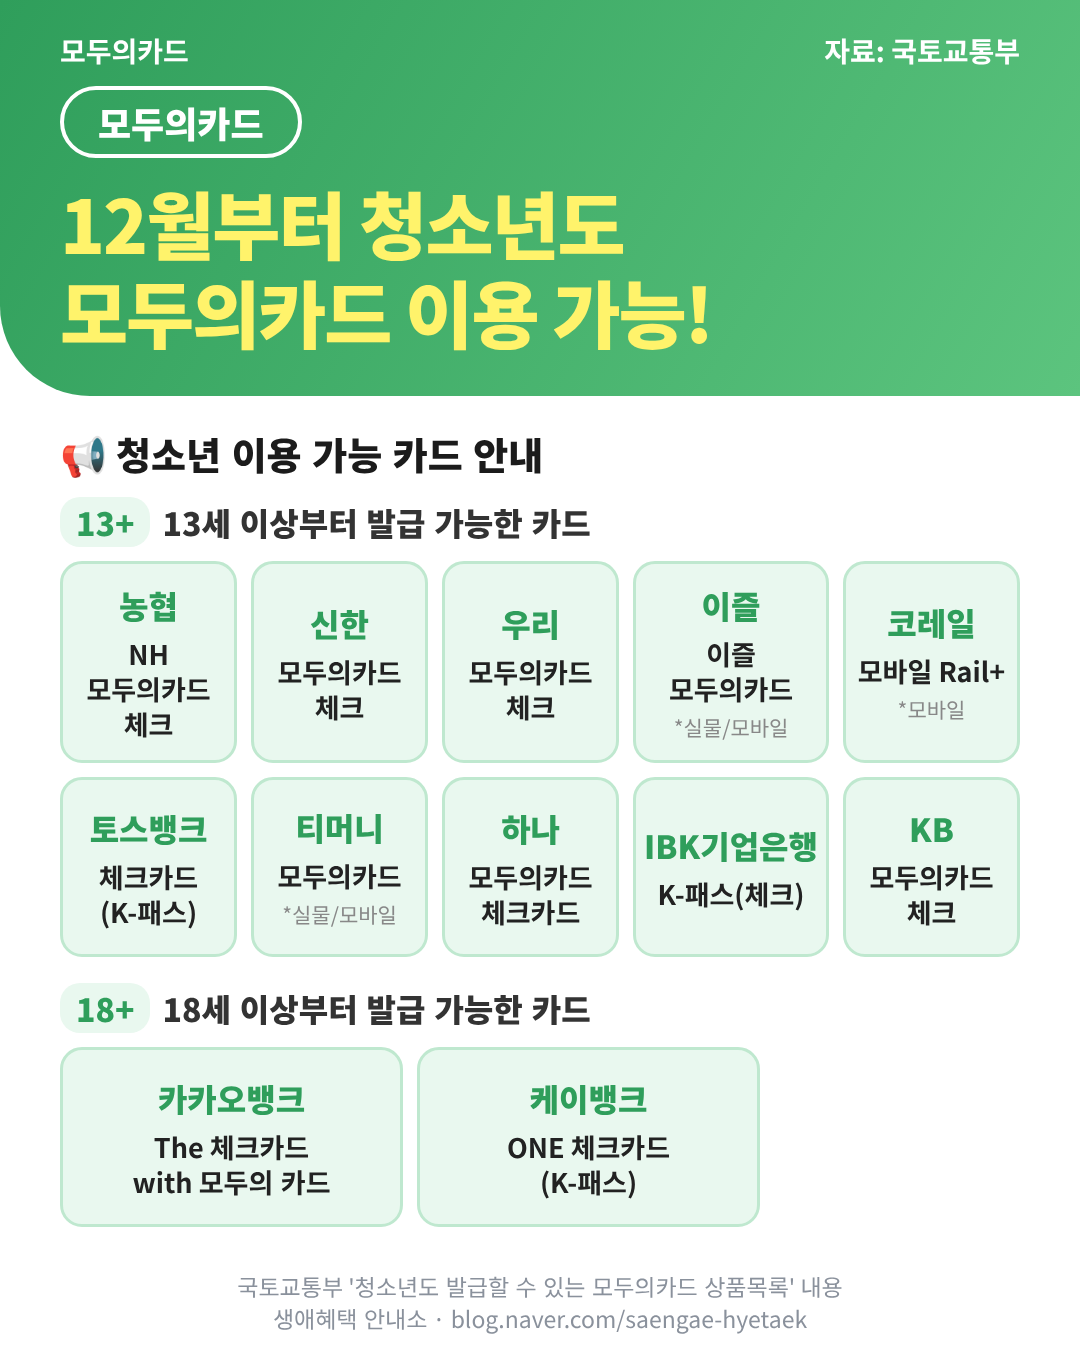
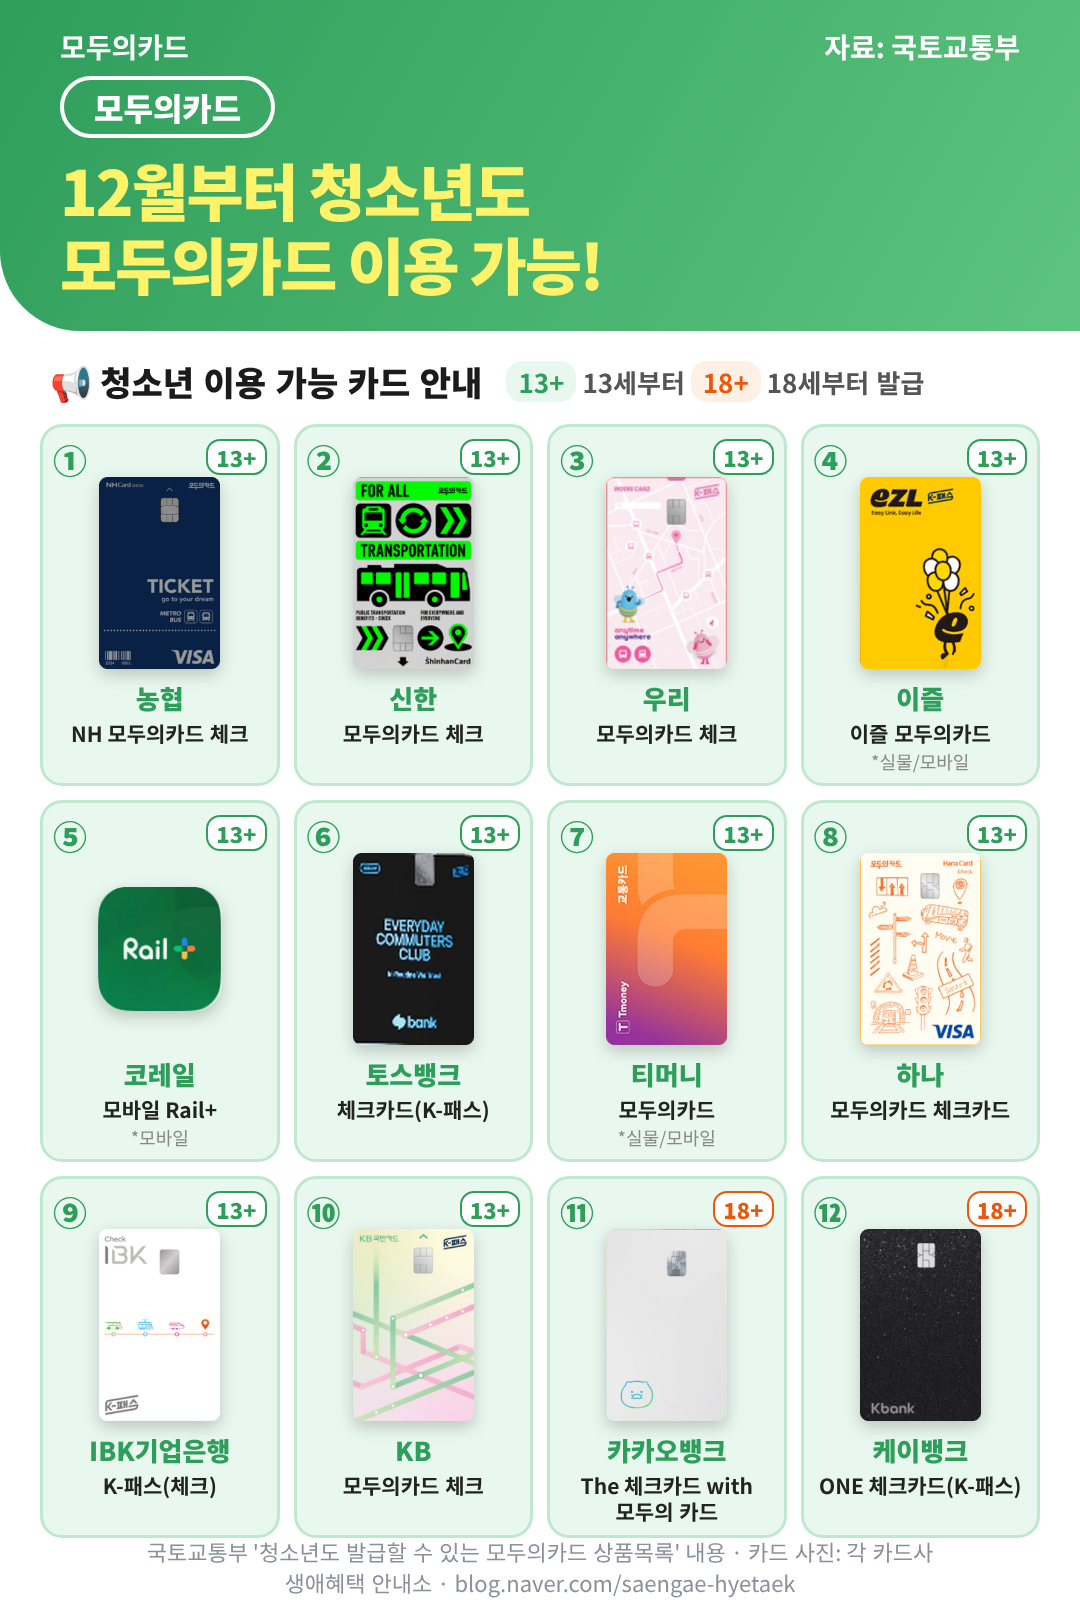
모두의카드 속보: 카드 실물 사진 3줄×4칸 표, 글자 '여기를 누르세요' 링크
Claude-Session: https://claude.ai/code/session_01Nk3GpN9jKPcZJ4GuUVndVh

diff --git a/blog/속보-2026-11-26-모두의카드청소년/원고-11-26-정책속보-모두의카드-청소년.html b/blog/속보-2026-11-26-모두의카드청소년/원고-11-26-정책속보-모두의카드-청소년.html
@@ -14,19 +14,19 @@
 <p style="color:#333333;font-size:16px;line-height:1.9;margin:0 0 12px;text-align:left"><b style="font-size:19px;color:#DE5353">🚌 우리 아이는 어떤 카드로?</b></p>
 <p>[ 사진 넣는 자리 · 02-청소년-발급-가능-모두의카드-12종.webp ]</p>
 <table style="width:100%;border-collapse:collapse;border:0;margin:4px 0 14px"><tr><td style="width:6px;padding:0;background-color:#DE5353;border:0"></td><td style="padding:6px 12px;border:0;color:#333333;font-size:16px;line-height:1.75;text-align:left"><b style="color:#DE5353">👉 쉽게 말하면:</b> 신용카드가 아니라 선불·체크카드라서 아이 이름으로 만들 수 있어요. 만 13세부터는 농협·신한·우리·이즐·코레일·토스뱅크·티머니·하나·IBK기업은행·KB 카드 중에서 고르면 되고, 카카오뱅크·케이뱅크 카드는 만 18세부터 만들 수 있어요. 평소 거래하는 은행 체크카드로 고르면 부모님이 용돈 넣어 주기도 편해요.</td></tr></table>
-<p style="color:#333333;font-size:16px;line-height:1.9;margin:0 0 12px;text-align:left">카드 이름을 누르면 카드사 안내 페이지로 바로 가요.</p>
-<p style="color:#333333;font-size:16px;line-height:1.9;margin:0 0 12px;text-align:left">· 13세부터: 농협 <a href="https://card.nonghyup.com/servlet/IpCc2021R.act?CD_WRS_SQNO=90010470" style="color:#DE5353;text-decoration:underline">NH 모두의카드 체크</a></p>
-<p style="color:#333333;font-size:16px;line-height:1.9;margin:0 0 12px;text-align:left">· 13세부터: 신한 <a href="https://www.shinhancard.com/pconts/html/card/apply/check/1225544_2206.html" style="color:#DE5353;text-decoration:underline">모두의카드 체크</a></p>
-<p style="color:#333333;font-size:16px;line-height:1.9;margin:0 0 12px;text-align:left">· 13세부터: 우리 <a href="https://m.wooricard.com/dcmw/yh1/crd/crd01/M1CRD101S02.do?recomNo=102865" style="color:#DE5353;text-decoration:underline">모두의카드 체크</a></p>
-<p style="color:#333333;font-size:16px;line-height:1.9;margin:0 0 12px;text-align:left">· 13세부터: 이즐 <a href="https://www.myezl.com/ezl/sub/kpass.do" style="color:#DE5353;text-decoration:underline">이즐 모두의카드</a> (실물/모바일)</p>
-<p style="color:#333333;font-size:16px;line-height:1.9;margin:0 0 12px;text-align:left">· 13세부터: 코레일 <a href="https://railplus.korail.com/" style="color:#DE5353;text-decoration:underline">모바일 Rail+</a> (모바일)</p>
-<p style="color:#333333;font-size:16px;line-height:1.9;margin:0 0 12px;text-align:left">· 13세부터: 토스뱅크 <a href="https://www.tossbank.com/card/k-pass" style="color:#DE5353;text-decoration:underline">체크카드(K-패스)</a></p>
-<p style="color:#333333;font-size:16px;line-height:1.9;margin:0 0 12px;text-align:left">· 13세부터: 티머니 <a href="https://www.tmoney.co.kr/aeb/cmnctn/news/readNewsView.dev?bdSeqNo=4170" style="color:#DE5353;text-decoration:underline">모두의카드</a> (실물/모바일)</p>
-<p style="color:#333333;font-size:16px;line-height:1.9;margin:0 0 12px;text-align:left">· 13세부터: 하나 <a href="https://m.hanacard.co.kr/MKCDCM1000M.web?CD_PD_SEQ=17034" style="color:#DE5353;text-decoration:underline">모두의카드 체크카드</a></p>
-<p style="color:#333333;font-size:16px;line-height:1.9;margin:0 0 12px;text-align:left">· 13세부터: IBK기업은행 K-패스(체크) — 가까운 지점이나 i-ONE Bank 앱에서 문의</p>
-<p style="color:#333333;font-size:16px;line-height:1.9;margin:0 0 12px;text-align:left">· 13세부터: KB <a href="https://card.kbcard.com/CRD/DVIEW/HCAMCXPRICAC0076?mainCC=a&amp;cooperationcode=09322" style="color:#DE5353;text-decoration:underline">모두의카드 체크</a></p>
-<p style="color:#333333;font-size:16px;line-height:1.9;margin:0 0 12px;text-align:left">· 18세부터: 카카오뱅크 <a href="https://www.kakaobank.com/products/thecheckcard" style="color:#DE5353;text-decoration:underline">The 체크카드 with 모두의 카드</a></p>
-<p style="color:#333333;font-size:16px;line-height:1.9;margin:0 0 12px;text-align:left">· 18세부터: 케이뱅크 <a href="https://www.kbanknow.com/web/product/card/one-card" style="color:#DE5353;text-decoration:underline">ONE 체크카드(K-패스)</a></p>
+<p style="color:#333333;font-size:16px;line-height:1.9;margin:0 0 12px;text-align:left">사진 속 번호와 같아요. 원하는 카드 옆 &#x27;여기를 누르세요&#x27;를 누르면 그 카드사 안내 페이지로 바로 가요.</p>
+<p style="color:#333333;font-size:16px;line-height:1.9;margin:0 0 12px;text-align:left">① 농협 · NH 모두의카드 체크 👉 <a href="https://card.nonghyup.com/servlet/IpCc2021R.act?CD_WRS_SQNO=90010470" style="color:#DE5353;text-decoration:underline">여기를 누르세요</a></p>
+<p style="color:#333333;font-size:16px;line-height:1.9;margin:0 0 12px;text-align:left">② 신한 · 모두의카드 체크 👉 <a href="https://www.shinhancard.com/pconts/html/card/apply/check/1225544_2206.html" style="color:#DE5353;text-decoration:underline">여기를 누르세요</a></p>
+<p style="color:#333333;font-size:16px;line-height:1.9;margin:0 0 12px;text-align:left">③ 우리 · 모두의카드 체크 👉 <a href="https://m.wooricard.com/dcmw/yh1/crd/crd01/M1CRD101S02.do?recomNo=102865" style="color:#DE5353;text-decoration:underline">여기를 누르세요</a></p>
+<p style="color:#333333;font-size:16px;line-height:1.9;margin:0 0 12px;text-align:left">④ 이즐 · 이즐 모두의카드(실물/모바일) 👉 <a href="https://www.myezl.com/ezl/sub/kpass.do" style="color:#DE5353;text-decoration:underline">여기를 누르세요</a></p>
+<p style="color:#333333;font-size:16px;line-height:1.9;margin:0 0 12px;text-align:left">⑤ 코레일 · 모바일 Rail+(모바일) 👉 <a href="https://railplus.korail.com/" style="color:#DE5353;text-decoration:underline">여기를 누르세요</a></p>
+<p style="color:#333333;font-size:16px;line-height:1.9;margin:0 0 12px;text-align:left">⑥ 토스뱅크 · 체크카드(K-패스) 👉 <a href="https://www.tossbank.com/card/k-pass" style="color:#DE5353;text-decoration:underline">여기를 누르세요</a></p>
+<p style="color:#333333;font-size:16px;line-height:1.9;margin:0 0 12px;text-align:left">⑦ 티머니 · 모두의카드(실물/모바일) 👉 <a href="https://www.tmoney.co.kr/aeb/cmnctn/news/readNewsView.dev?bdSeqNo=4170" style="color:#DE5353;text-decoration:underline">여기를 누르세요</a></p>
+<p style="color:#333333;font-size:16px;line-height:1.9;margin:0 0 12px;text-align:left">⑧ 하나 · 모두의카드 체크카드 👉 <a href="https://m.hanacard.co.kr/MKCDCM1000M.web?CD_PD_SEQ=17034" style="color:#DE5353;text-decoration:underline">여기를 누르세요</a></p>
+<p style="color:#333333;font-size:16px;line-height:1.9;margin:0 0 12px;text-align:left">⑨ IBK기업은행 · K-패스(체크) 👉 가까운 IBK기업은행 지점이나 i-ONE Bank 앱에서 물어보세요</p>
+<p style="color:#333333;font-size:16px;line-height:1.9;margin:0 0 12px;text-align:left">⑩ KB · 모두의카드 체크 👉 <a href="https://card.kbcard.com/CRD/DVIEW/HCAMCXPRICAC0076?mainCC=a&amp;cooperationcode=09322" style="color:#DE5353;text-decoration:underline">여기를 누르세요</a></p>
+<p style="color:#333333;font-size:16px;line-height:1.9;margin:0 0 12px;text-align:left">⑪ 카카오뱅크 · The 체크카드 with 모두의 카드 (18세부터) 👉 <a href="https://www.kakaobank.com/products/thecheckcard" style="color:#DE5353;text-decoration:underline">여기를 누르세요</a></p>
+<p style="color:#333333;font-size:16px;line-height:1.9;margin:0 0 12px;text-align:left">⑫ 케이뱅크 · ONE 체크카드(K-패스) (18세부터) 👉 <a href="https://www.kbanknow.com/web/product/card/one-card" style="color:#DE5353;text-decoration:underline">여기를 누르세요</a></p>
 <p><br></p>
 <p style="color:#333333;font-size:16px;line-height:1.9;margin:0 0 12px;text-align:left"><b style="font-size:19px;color:#DE5353">💰 얼마나 돌려받나, 어떻게 시작하나</b></p>
 <p>[ 사진 넣는 자리 · 03-청소년-모두의카드-환급-등록-방법.webp ]</p>

diff --git a/tools/blog-card/prep-modoo-cards-1126.py b/tools/blog-card/prep-modoo-cards-1126.py
@@ -1,0 +1,33 @@
+# 11/26 사장님이 보내 준 모두의카드 실물 사진 12장을 다듬기: 테두리 잘라내기, 가로 카드는 세로로, 이즐은 노란 카드만 바로 세우기, 둥근 모서리
+import sys, numpy as np, cv2
+from PIL import Image, ImageDraw
+U, OUT = sys.argv[1], sys.argv[2]
+src = ['3e09523b','d87c9fea','2915c015','804c7130','2eb0e5be','8218430f','fd14ee02','74de5e92','184db3b0','f939c384','052f373f','a065c18c']
+names = ['01-농협','02-신한','03-우리','04-이즐','05-코레일','06-토스뱅크','07-티머니','08-하나','09-IBK','10-KB','11-카카오뱅크','12-케이뱅크']
+crop = {0:(1,1,-1,-1),1:(2,1,-2,-2),2:(0,0,0,0),5:(1,14,-1,-13),6:(3,2,-2,-3),7:(1,1,-1,-1),8:(3,2,-3,-4),9:(3,2,-2,-1),10:(2,1,-1,-1),11:(1,1,-1,-1)}
+W, H = 400, 634  # 세로 카드(1:1.586)
+def rounded(im, r=0.07):
+    m = Image.new('L', im.size, 0); ImageDraw.Draw(m).rounded_rectangle((0,0,im.width-1,im.height-1), int(im.width*r), fill=255)
+    out = Image.new('RGBA', im.size, (0,0,0,0)); out.paste(im.convert('RGB'), (0,0), m); return out
+for i,(s,n) in enumerate(zip(src,names)):
+    im = Image.open(f'{U}/{s}-image.png').convert('RGB')
+    if i == 3:  # 이즐: 노란 카드만, 기울기 바로잡기, 검은 카드에 가린 오른쪽 아래는 노란색으로 채움
+        a = np.asarray(im).copy()
+        yel = np.median(a[60:120, 40:90].reshape(-1,3), axis=0).astype(np.uint8)
+        hh, ww, _ = a.shape
+        for y in range(hh):
+            xl = 195 - (y-52)*47/180
+            for x in range(ww):
+                if x > xl - 6: a[y,x] = yel
+        tl, tr, bl = (10.5,31), (128,6), (69,214); br = (tr[0]+bl[0]-tl[0], tr[1]+bl[1]-tl[1])
+        M = cv2.getPerspectiveTransform(np.float32([tl,tr,br,bl]), np.float32([[0,0],[W,0],[W,H],[0,H]]))
+        im = Image.fromarray(cv2.warpPerspective(a, M, (W,H), flags=cv2.INTER_CUBIC, borderValue=tuple(int(v) for v in yel)))
+        b = np.asarray(im).copy(); reg = b[380:, 290:]; light = reg.astype(int).sum(2) > 330; reg[light] = yel; im = Image.fromarray(b)  # 검은 카드 그림자 줄 지우기
+    elif i == 4:  # 코레일 Rail+ 는 앱 아이콘 → 정사각 그대로
+        im = im.resize((W, W), Image.LANCZOS); rounded(im, 0.22).save(f'{OUT}/{n}.png'); continue
+    else:
+        l,t,r,b = crop[i]; im = im.crop((l, t, im.width+r if r else im.width, im.height+b if b else im.height))
+        if i == 6: im = im.rotate(90, expand=True)    # 티머니 가로 → 세로
+        if i == 8: im = im.rotate(-90, expand=True)   # IBK 가로 → 세로(IBK 글자가 바로 읽히게)
+        im = im.resize((W, H), Image.LANCZOS)
+    rounded(im).save(f'{OUT}/{n}.png'); print(n, im.size)
